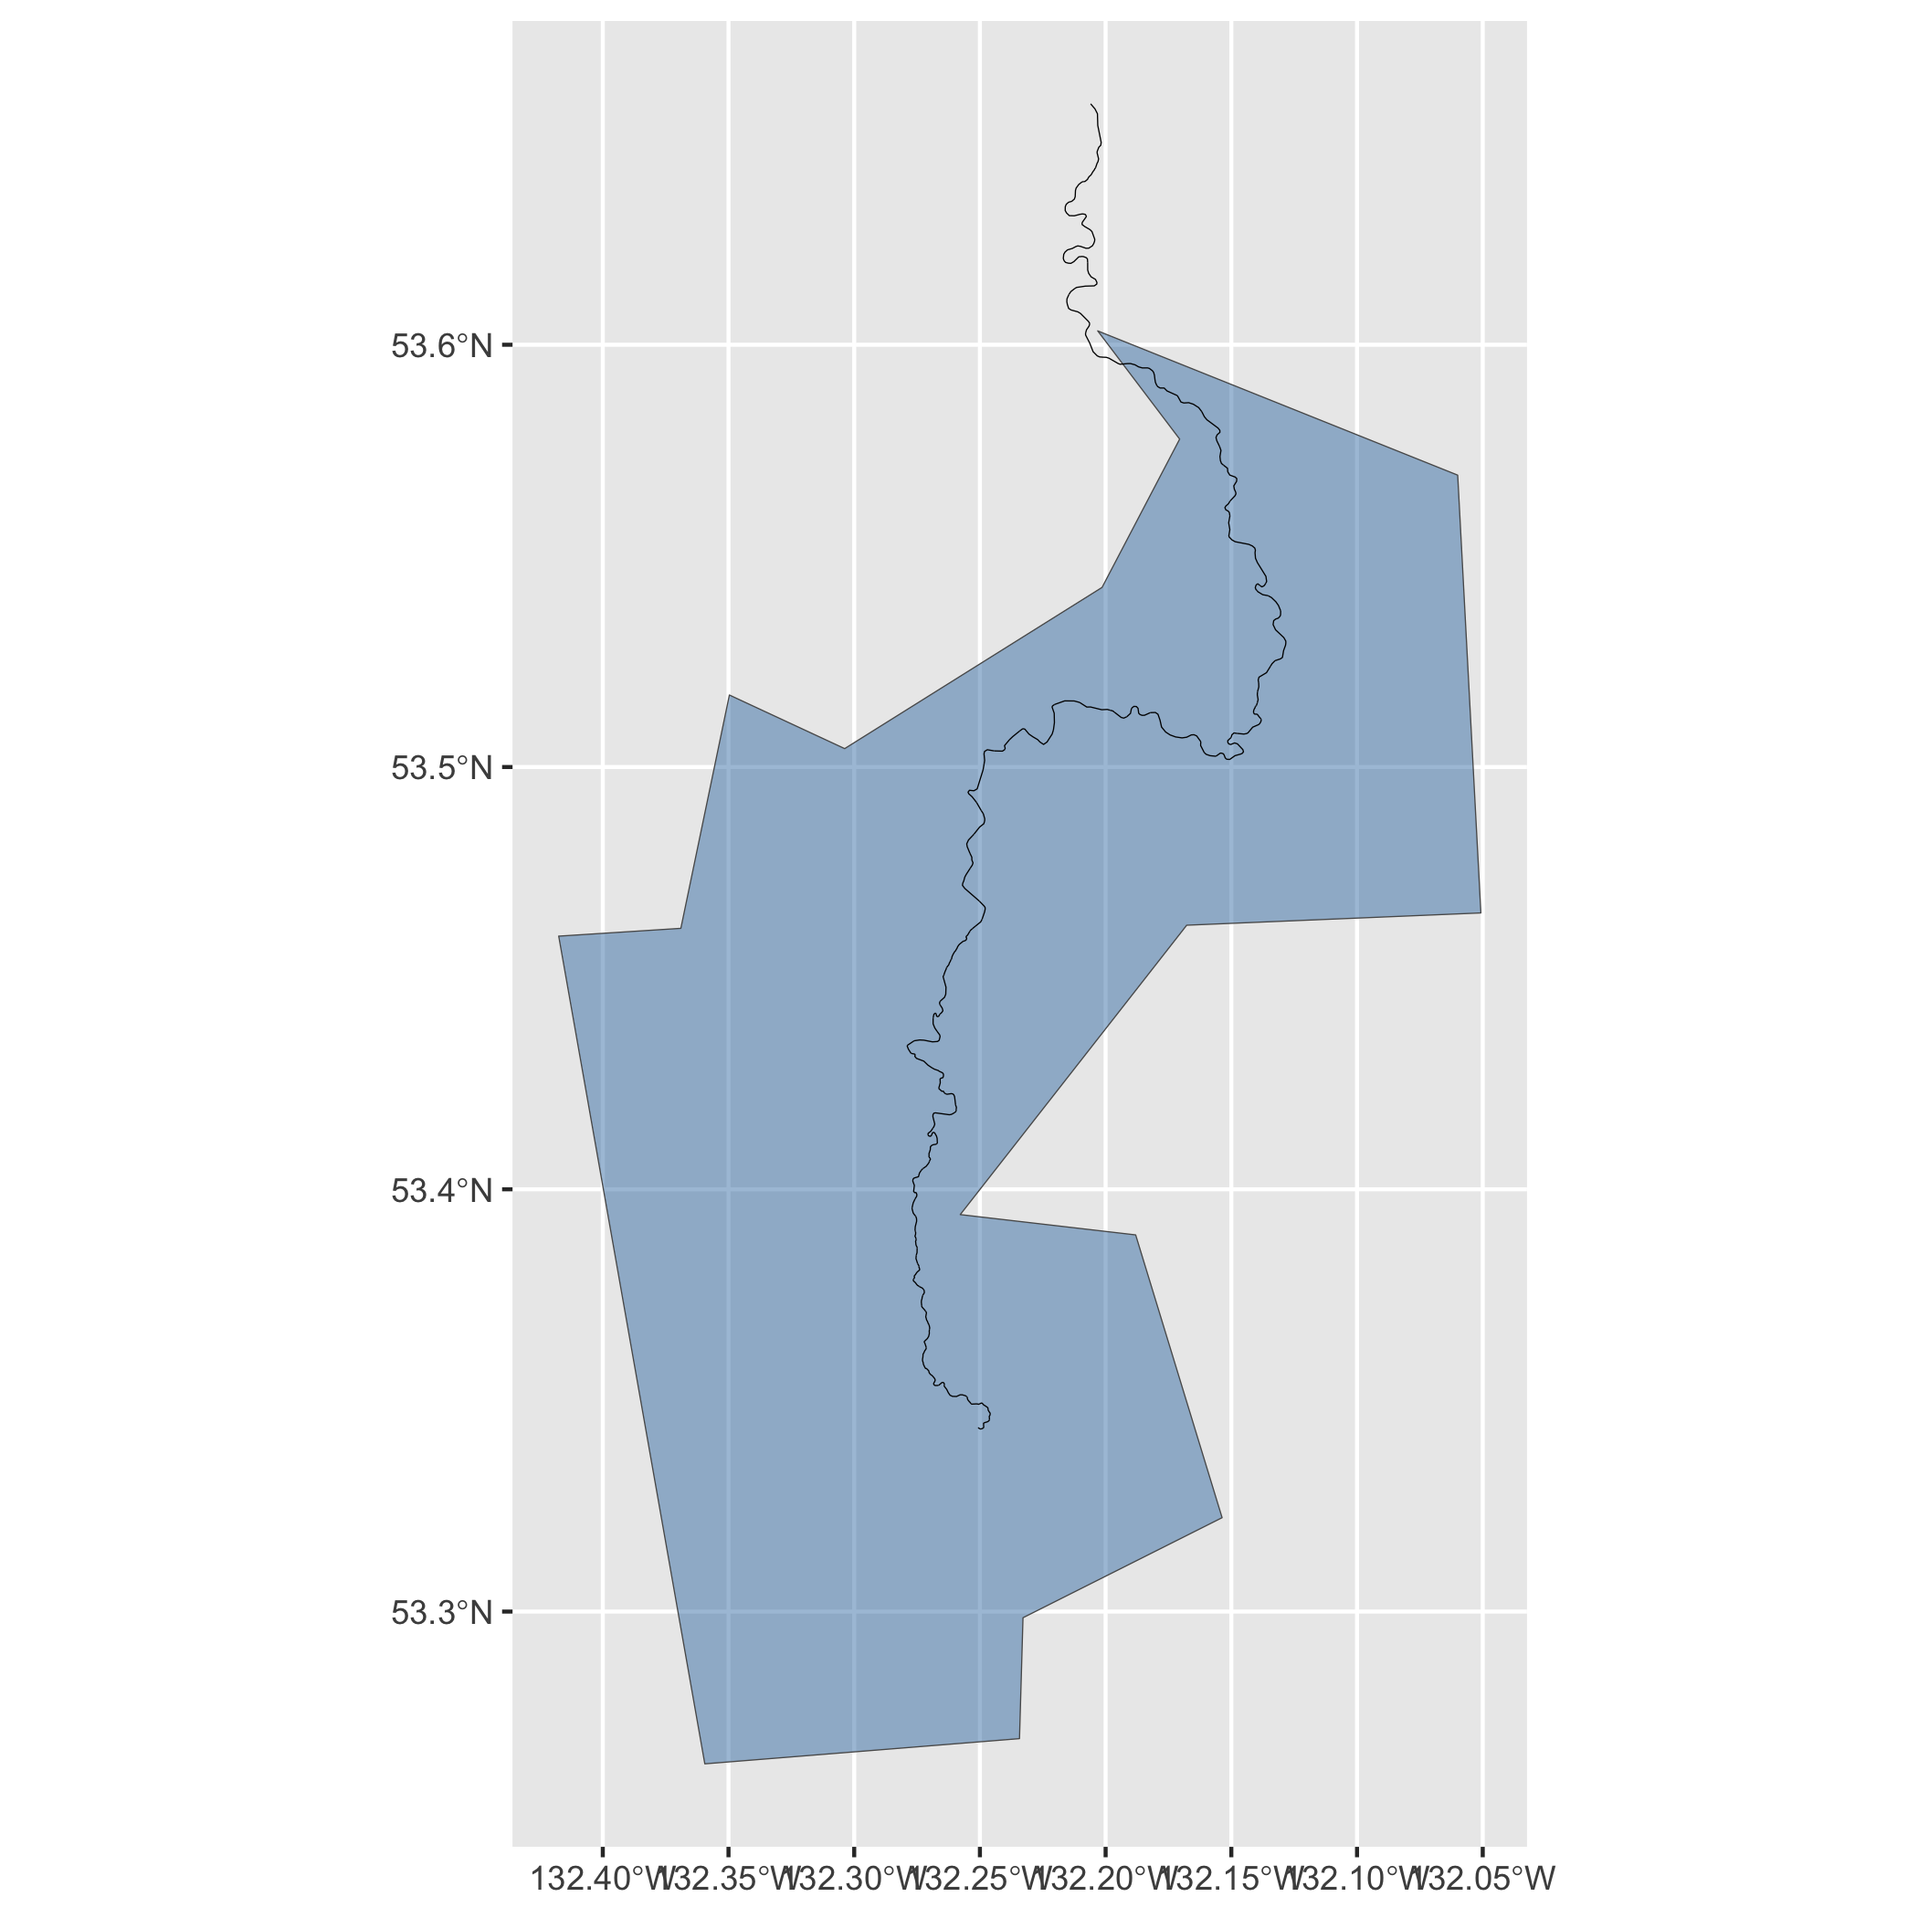
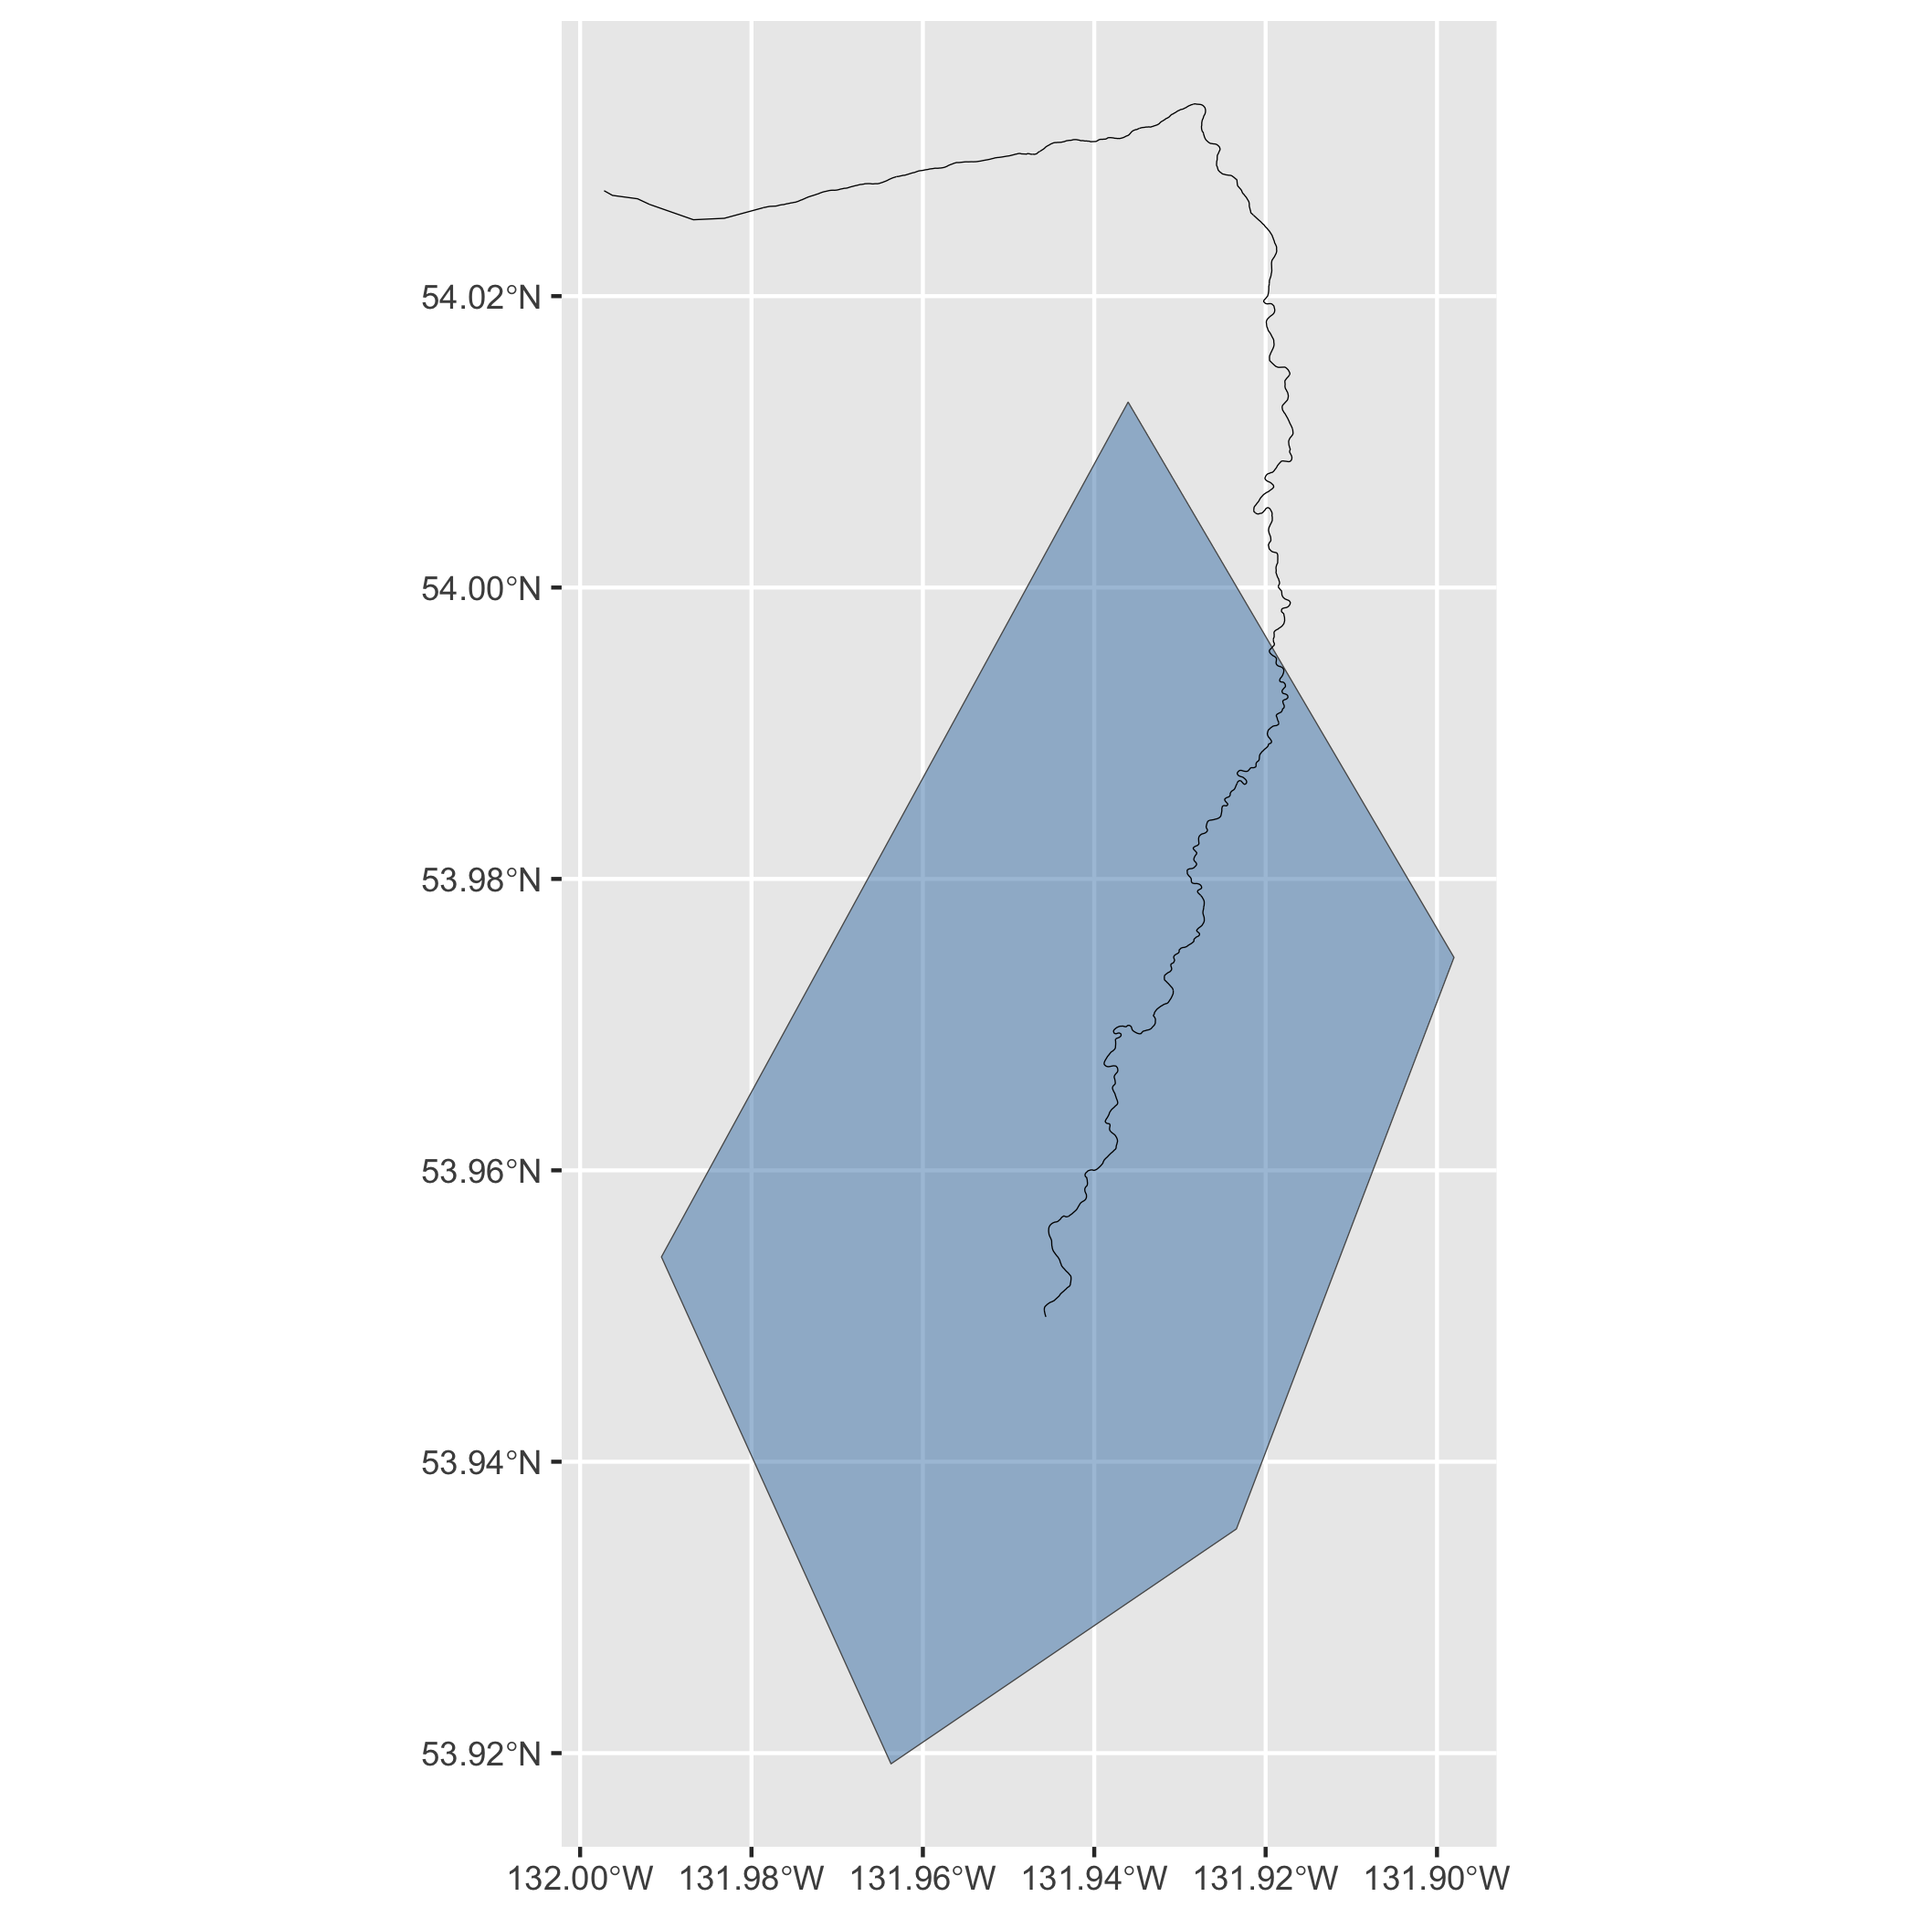
- Switch to Sangan River in example

diff --git a/README.md b/README.md
@@ -70,33 +70,33 @@ Execute spatial
 
 ## Demonstration
 
-Get Yakoun River stream from `whse_basemapping.fwa_stream_networks_sp`
+Get Sangan River from `whse_basemapping.fwa_stream_networks_sp`
 collection:
 
 ``` r
 coll <- "whse_basemapping.fwa_stream_networks_sp"
-yak <- fwapgr::fwa_collection(coll, filter = list(gnis_name = "Yakoun River"))
-yak
-#> Simple feature collection with 129 features and 28 fields
+river <- fwapgr::fwa_collection(coll, filter = list(gnis_name = "Sangan River"))
+river
+#> Simple feature collection with 21 features and 28 fields
 #> Geometry type: LINESTRING
 #> Dimension:     XYZ
-#> Bounding box:  xmin: -132.2789 ymin: 53.34324 xmax: -132.1283 ymax: 53.65705
-#> z_range:       zmin: 1 zmax: 99
+#> Bounding box:  xmin: -131.9972 ymin: 53.94994 xmax: -131.9168 ymax: 54.0332
+#> z_range:       zmin: 1 zmax: 67
 #> Geodetic CRS:  WGS 84
-#> # A data frame: 129 × 29
+#> # A data frame: 21 × 29
 #>    id       blue_line_key blue_line_key_5… downstream_rout… edge_type feature_code
 #>    <chr>            <int>            <int>            <dbl>     <int> <chr>       
-#>  1 59099140     360881586             1551               0       1250 WA24111120  
-#>  2 59099416     360881586             1551            1808.      1000 GA24850000  
-#>  3 59099419     360881586             1551            2307.      1250 WA24111120  
-#>  4 59100176     360881586             1551            2342.      1250 WA24111120  
-#>  5 59101376     360881586             1551            3960.      1250 WA24111120  
-#>  6 59102089     360881586             1551            6776.      1250 WA24111120  
-#>  7 59102227     360881586             1551            8044.      1250 WA24111120  
-#>  8 59102987     360881586             1551            8275.      1250 WA24111120  
-#>  9 59103235     360881586             1551            9367.      1250 WA24111120  
-#> 10 59103900     360881586             1551            9649.      1250 WA24111120  
-#> # … with 119 more rows, and 23 more variables: feature_source <chr>,
+#>  1 59028661     360879896               11            4721.      1000 GA24850000  
+#>  2 59028739     360879896               11            3446.      1000 GA24850000  
+#>  3 59028963     360879896               11            2319.      1000 GA24850000  
+#>  4 59029083     360879896               11               0       1250 WA24111120  
+#>  5 59029299     360879896               11            1266.      1000 GA24850000  
+#>  6 59029455     360879896               11             367.      1250 WA24111120  
+#>  7 59031813     360879896               11            5029.      1000 GA24850000  
+#>  8 59032427     360879896               11            6466.      1000 GA24850000  
+#>  9 59033632     360879896               11            6808.      1000 GA24850000  
+#> 10 59034768     360879896               11            7384.      1000 GA24850000  
+#> # … with 11 more rows, and 23 more variables: feature_source <chr>,
 #> #   fwa_watershed_code <chr>, gnis_id <int>, gnis_name <chr>, gradient <dbl>,
 #> #   left_right_tributary <chr>, length_metre <dbl>, linear_feature_id <int>,
 #> #   local_watershed_code <chr>, localcode_ltree <chr>, stream_magnitude <int>,
@@ -108,7 +108,7 @@ yak
 Get simplified Yakoun River watershed starting 10km upstream:
 
 ``` r
-blk <- yak$blue_line_key[1]
+blk <- river$blue_line_key[1]
 wshed <- fwapgr::fwa_watershed_at_measure(blk, downstream_route_measure = 10000,
                                           transform = c("ST_Simplify", 2000))
 ```
@@ -116,7 +116,7 @@ wshed <- fwapgr::fwa_watershed_at_measure(blk, downstream_route_measure = 10000,
 ``` r
 ggplot2::ggplot() +
   ggplot2::geom_sf(data = wshed, lwd = 0.15, fill = "steelblue", alpha = 0.5) +
-  ggplot2::geom_sf(data = yak, lwd = 0.15)
+  ggplot2::geom_sf(data = river, lwd = 0.15)
 ```
 
 <img src="man/figures/README-unnamed-chunk-5-1.png" width="100%" />
